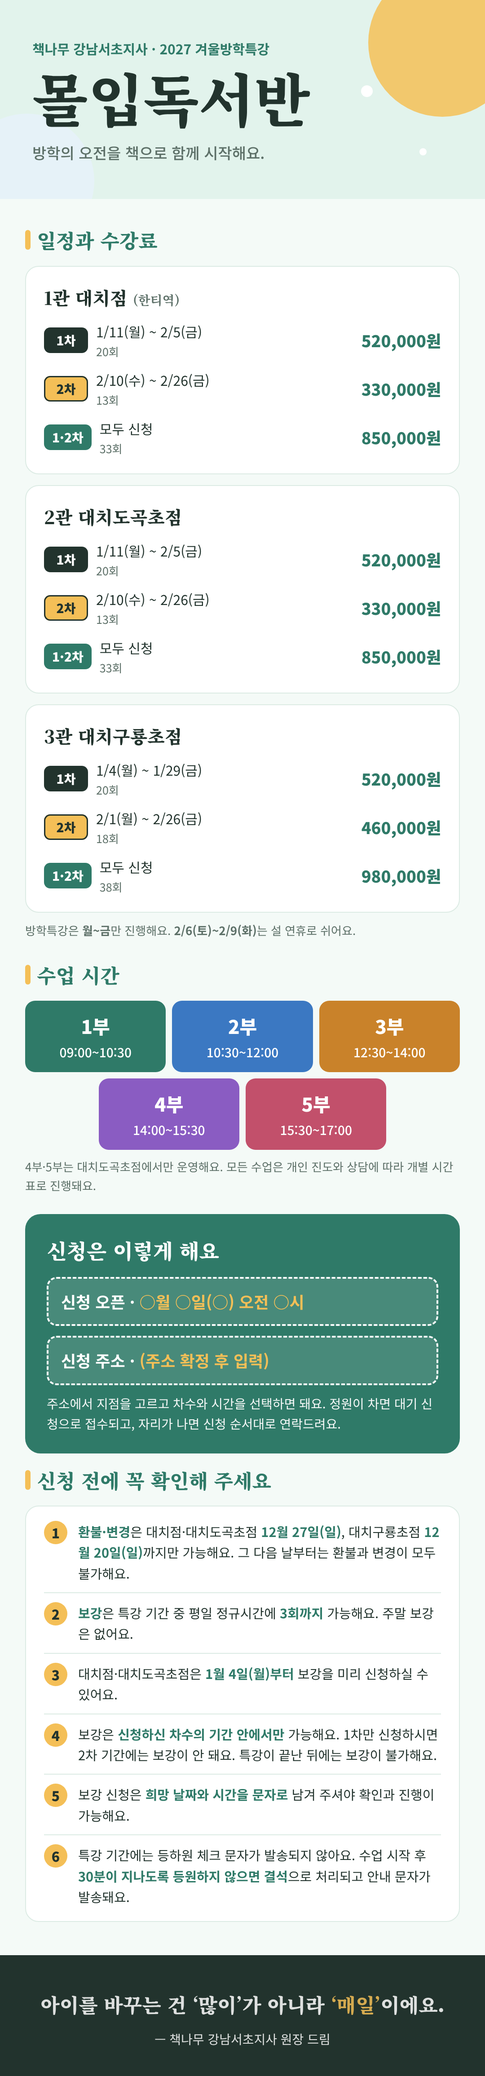
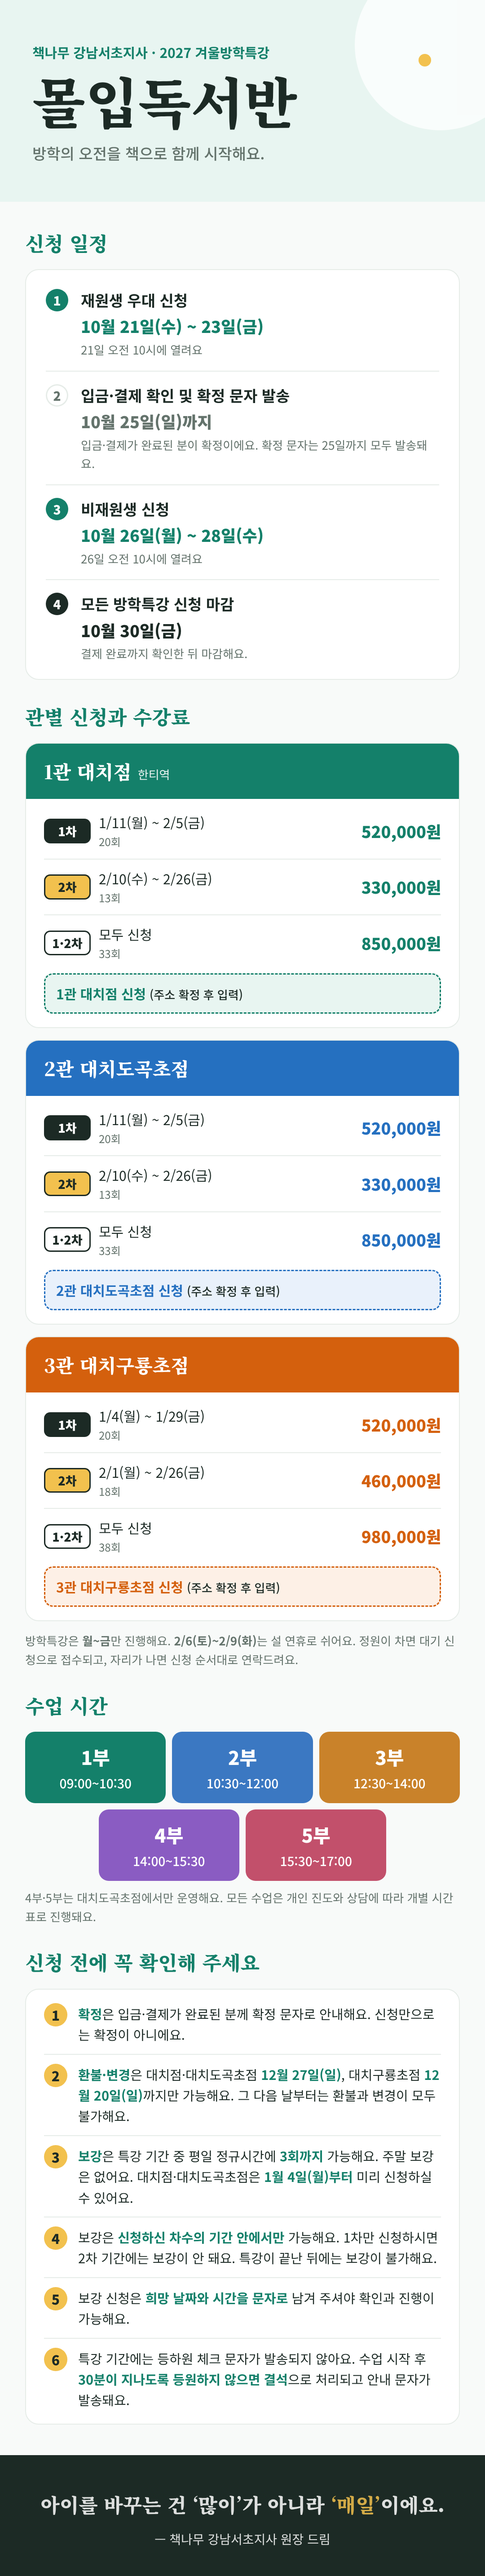
공지 안내문 이미지 새 일정·새 디자인으로 갱신 (관별 색, 관별 신청 주소 칸)
Claude-Session: https://claude.ai/code/session_01CMkHt9vR7B71WRJrYuVxsD

diff --git a/chaeknamu-winter/docs/notice/notice.html b/chaeknamu-winter/docs/notice/notice.html
@@ -4,84 +4,115 @@
 <link rel="preconnect" href="https://fonts.googleapis.com"><link rel="preconnect" href="https://fonts.gstatic.com" crossorigin>
 <link href="https://fonts.googleapis.com/css2?family=Noto+Sans+KR:wght@400;500;700;900&family=Noto+Serif+KR:wght@700;900&display=swap" rel="stylesheet">
 <style>
-:root{--pine:#2f7a68;--pine-d:#25624f;--gold:#f4bf57;--snow:#f4faf7;--ink:#22332d;--muted:#5d7068;--line:#dcebe4;--mint:#e2f3ec;--sky:#e6f2f8}
+:root{--ink:#1c2a25;--muted:#64736c;--line:#e6ece8;--snow:#f8faf9;--gold:#f2c14e;--g1:#14806a;--g1s:#e8f5f1;--g2:#2570c0;--g2s:#e9f1fb;--g3:#d4600d;--g3s:#fdf0e6}
 *{box-sizing:border-box;margin:0;padding:0}
 body{width:1080px;background:var(--snow);color:var(--ink);font-family:'Noto Sans KR',sans-serif;font-size:30px;line-height:1.6}
 .serif{font-family:'Noto Serif KR',serif;font-weight:900}
-.hero{position:relative;overflow:hidden;background:var(--mint);padding:84px 72px 76px}
-.hero .sun{position:absolute;right:-70px;top:-70px;width:330px;height:330px;border-radius:50%;background:var(--gold);opacity:.85}
-.hero .d1{position:absolute;right:250px;top:190px;width:26px;height:26px;border-radius:50%;background:#fff}
-.hero .d2{position:absolute;right:130px;top:330px;width:16px;height:16px;border-radius:50%;background:#fff}
-.hero .moon{position:absolute;left:-90px;bottom:-110px;width:300px;height:300px;border-radius:50%;background:var(--sky)}
+.hero{position:relative;overflow:hidden;background:var(--g1s);padding:92px 72px 80px}
+.hero .c1{position:absolute;right:-90px;top:-90px;width:380px;height:380px;border-radius:50%;background:rgba(255,255,255,.75)}
+.hero .c2{position:absolute;right:120px;top:120px;width:28px;height:28px;border-radius:50%;background:var(--gold)}
 .hero p,.hero h1{position:relative}
-.kicker{font-size:30px;font-weight:700;color:var(--pine)}
-h1{font-size:128px;line-height:1.1;margin-top:14px;color:var(--ink)}
-.tag{margin-top:26px;font-size:34px;color:var(--muted);font-weight:500}
-.wrap{padding:56px 56px 20px}
-h2{font-family:'Noto Serif KR',serif;font-weight:900;font-size:44px;color:var(--pine);margin:0 0 22px;display:flex;align-items:center;gap:14px}
-h2:before{content:"";width:12px;height:44px;border-radius:6px;background:var(--gold)}
-.card{background:#fff;border:2px solid var(--line);border-radius:30px;padding:36px 40px;margin-bottom:24px}
-.bname{font-family:'Noto Serif KR',serif;font-weight:900;font-size:40px;color:var(--ink)}
-.row{display:flex;align-items:center;gap:18px;margin-top:20px}
-.chip{flex:none;min-width:98px;text-align:center;font-weight:900;font-size:28px;padding:6px 18px;border-radius:14px}
-.c1{background:var(--ink);color:#fff}.c2{background:var(--gold);color:var(--ink);box-shadow:0 0 0 3px var(--ink) inset}.c3{background:var(--pine);color:#fff}
-.row .t{flex:1;font-size:30px}.row .t small{display:block;font-size:25px;color:var(--muted)}
-.price{font-weight:900;font-size:36px;color:var(--pine);white-space:nowrap}
-.sub{font-size:25px;color:var(--muted);margin-top:14px}
+.kicker{font-size:30px;font-weight:700;color:var(--g1)}
+h1{font-size:122px;line-height:1.1;margin-top:16px}
+.tag{margin-top:24px;font-size:34px;color:var(--muted);font-weight:500}
+.wrap{padding:56px 56px 8px}
+h2{font-family:'Noto Serif KR',serif;font-weight:900;font-size:44px;color:var(--g1);margin:0 0 24px}
+.card{background:#fff;border:2px solid var(--line);border-radius:30px;padding:0;margin-bottom:26px;overflow:hidden}
+/* 신청 일정 타임라인 */
+.tl{padding:14px 44px 10px}
+.step{position:relative;padding:26px 0 26px 78px;border-top:2px solid var(--line)}
+.step:first-child{border-top:0}
+.step .n{position:absolute;left:0;top:28px;width:50px;height:50px;border-radius:50%;background:var(--g1);color:#fff;font-weight:900;font-size:28px;text-align:center;line-height:50px}
+.step.rest .n{background:#fff;color:var(--muted);box-shadow:inset 0 0 0 3px var(--line)}
+.step.end .n{background:var(--ink)}
+.step b{display:block;font-size:34px}
+.step .d{font-size:36px;font-weight:900;color:var(--g1);margin-top:2px}
+.step.rest .d{color:var(--muted)}
+.step.end .d{color:var(--ink)}
+.step small{display:block;font-size:26px;color:var(--muted);font-weight:400;margin-top:2px}
+.note{font-size:26px;color:var(--muted);margin-top:16px}
+/* 관별 카드 */
+.bhead{padding:28px 40px;color:#fff;display:flex;align-items:baseline;gap:14px}
+.bhead .nm{font-family:'Noto Serif KR',serif;font-weight:900;font-size:42px}
+.bhead .sb{font-size:26px;opacity:.9}
+.b1 .bhead{background:var(--g1)}.b2 .bhead{background:var(--g2)}.b3 .bhead{background:var(--g3)}
+.body{padding:10px 40px 30px}
+.row{display:flex;align-items:center;gap:18px;padding:18px 0;border-top:2px solid var(--line)}
+.row:first-child{border-top:0}
+.chip{flex:none;min-width:104px;text-align:center;font-weight:900;font-size:27px;padding:6px 14px;border-radius:14px}
+.k1{background:var(--ink);color:#fff}.k2{background:var(--gold);color:var(--ink);box-shadow:inset 0 0 0 3px var(--ink)}.k3{background:#fff;color:var(--ink);box-shadow:inset 0 0 0 3px var(--ink)}
+.row .t{flex:1;font-size:30px}.row .t small{display:block;font-size:24px;color:var(--muted)}
+.price{font-weight:900;font-size:36px;white-space:nowrap}
+.b1 .price{color:var(--g1)}.b2 .price{color:var(--g2)}.b3 .price{color:var(--g3)}
+.link{margin-top:6px;border:3px dashed;border-radius:20px;padding:18px 24px;font-size:30px;font-weight:700}
+.b1 .link{border-color:var(--g1);background:var(--g1s);color:var(--g1)}.b2 .link{border-color:var(--g2);background:var(--g2s);color:var(--g2)}.b3 .link{border-color:var(--g3);background:var(--g3s);color:var(--g3)}
+.link span{color:var(--ink);font-weight:500;font-size:26px;margin-left:8px}
+/* 시간 */
 .slots{display:flex;flex-wrap:wrap;justify-content:center;gap:14px}
 .slot{flex:0 0 calc((100% - 28px)/3);border-radius:22px;padding:22px 10px;text-align:center;color:#fff}
 .slot b{display:block;font-size:42px;font-weight:900}.slot span{font-size:28px;font-weight:500}
-.s1{background:#2f7a68}.s2{background:#3b78c2}.s3{background:#c9822a}.s4{background:#8a5cc2}.s5{background:#c2506b}
-.note{font-size:26px;color:var(--muted);margin-top:16px}
-.apply{background:var(--pine);color:#fff;border-radius:34px;padding:44px 48px;margin:10px 0 24px}
-.apply h3{font-family:'Noto Serif KR',serif;font-weight:900;font-size:46px}
-.blank{margin-top:22px;border:4px dashed #fff;border-radius:22px;padding:22px 28px;font-size:36px;font-weight:700;background:rgba(255,255,255,.12)}
-.blank em{font-style:normal;color:var(--gold)}
-.apply p{margin-top:18px;font-size:28px;opacity:.95}
-ol{list-style:none;counter-reset:n}
+.s1{background:#14806a}.s2{background:#3b78c2}.s3{background:#c9822a}.s4{background:#8a5cc2}.s5{background:#c2506b}
+ol{list-style:none;counter-reset:n;padding:10px 40px}
 ol li{counter-increment:n;position:relative;padding:20px 0 20px 76px;border-top:2px solid var(--line);font-size:29px}
 ol li:first-child{border-top:0}
 ol li:before{content:counter(n);position:absolute;left:0;top:20px;width:52px;height:52px;border-radius:50%;background:var(--gold);color:var(--ink);font-weight:900;font-size:30px;text-align:center;line-height:52px}
-ol li b{color:var(--pine)}
-.foot{margin:30px 0 0;background:var(--ink);color:#fff;padding:54px 72px 60px;text-align:center}
+ol li b{color:var(--g1)}
+.foot{margin:34px 0 0;background:var(--ink);color:#fff;padding:54px 72px 60px;text-align:center}
 .foot .q{font-family:'Noto Serif KR',serif;font-weight:900;font-size:44px;line-height:1.5}
 .foot .q i{font-style:normal;color:var(--gold)}
 .foot p{margin-top:22px;font-size:28px;opacity:.85}
 </style></head><body>
 
 <header class="hero">
-  <span class="sun"></span><span class="d1"></span><span class="d2"></span><span class="moon"></span>
+  <span class="c1"></span><span class="c2"></span>
   <p class="kicker">책나무 강남서초지사 · 2027 겨울방학특강</p>
   <h1 class="serif">몰입독서반</h1>
   <p class="tag">방학의 오전을 책으로 함께 시작해요.</p>
 </header>
 
-<div class="wrap" id="p1">
-  <h2>일정과 수강료</h2>
+<div class="wrap">
+  <h2>신청 일정</h2>
+  <div class="card"><div class="tl">
+    <div class="step"><span class="n">1</span><b>재원생 우대 신청</b><div class="d">10월 21일(수) ~ 23일(금)</div><small>21일 오전 10시에 열려요</small></div>
+    <div class="step rest"><span class="n">2</span><b>입금·결제 확인 및 확정 문자 발송</b><div class="d">10월 25일(일)까지</div><small>입금·결제가 완료된 분이 확정이에요. 확정 문자는 25일까지 모두 발송돼요.</small></div>
+    <div class="step"><span class="n">3</span><b>비재원생 신청</b><div class="d">10월 26일(월) ~ 28일(수)</div><small>26일 오전 10시에 열려요</small></div>
+    <div class="step end"><span class="n">4</span><b>모든 방학특강 신청 마감</b><div class="d">10월 30일(금)</div><small>결제 완료까지 확인한 뒤 마감해요.</small></div>
+  </div></div>
 
-  <div class="card">
-    <div class="bname">1관 대치점 <span style="font-size:28px;font-weight:500;color:var(--muted)">(한티역)</span></div>
-    <div class="row"><span class="chip c1">1차</span><div class="t">1/11(월) ~ 2/5(금)<small>20회</small></div><div class="price">520,000원</div></div>
-    <div class="row"><span class="chip c2">2차</span><div class="t">2/10(수) ~ 2/26(금)<small>13회</small></div><div class="price">330,000원</div></div>
-    <div class="row"><span class="chip c3">1·2차</span><div class="t">모두 신청<small>33회</small></div><div class="price">850,000원</div></div>
+  <h2 id="p2" style="margin-top:46px">관별 신청과 수강료</h2>
+
+  <div class="card b1">
+    <div class="bhead"><span class="nm">1관 대치점</span><span class="sb">한티역</span></div>
+    <div class="body">
+      <div class="row"><span class="chip k1">1차</span><div class="t">1/11(월) ~ 2/5(금)<small>20회</small></div><div class="price">520,000원</div></div>
+      <div class="row"><span class="chip k2">2차</span><div class="t">2/10(수) ~ 2/26(금)<small>13회</small></div><div class="price">330,000원</div></div>
+      <div class="row"><span class="chip k3">1·2차</span><div class="t">모두 신청<small>33회</small></div><div class="price">850,000원</div></div>
+      <div class="link">1관 대치점 신청<span>(주소 확정 후 입력)</span></div>
+    </div>
   </div>
 
-  <div class="card">
-    <div class="bname">2관 대치도곡초점</div>
-    <div class="row"><span class="chip c1">1차</span><div class="t">1/11(월) ~ 2/5(금)<small>20회</small></div><div class="price">520,000원</div></div>
-    <div class="row"><span class="chip c2">2차</span><div class="t">2/10(수) ~ 2/26(금)<small>13회</small></div><div class="price">330,000원</div></div>
-    <div class="row"><span class="chip c3">1·2차</span><div class="t">모두 신청<small>33회</small></div><div class="price">850,000원</div></div>
+  <div class="card b2">
+    <div class="bhead"><span class="nm">2관 대치도곡초점</span></div>
+    <div class="body">
+      <div class="row"><span class="chip k1">1차</span><div class="t">1/11(월) ~ 2/5(금)<small>20회</small></div><div class="price">520,000원</div></div>
+      <div class="row"><span class="chip k2">2차</span><div class="t">2/10(수) ~ 2/26(금)<small>13회</small></div><div class="price">330,000원</div></div>
+      <div class="row"><span class="chip k3">1·2차</span><div class="t">모두 신청<small>33회</small></div><div class="price">850,000원</div></div>
+      <div class="link">2관 대치도곡초점 신청<span>(주소 확정 후 입력)</span></div>
+    </div>
   </div>
 
-  <div class="card">
-    <div class="bname">3관 대치구룡초점</div>
-    <div class="row"><span class="chip c1">1차</span><div class="t">1/4(월) ~ 1/29(금)<small>20회</small></div><div class="price">520,000원</div></div>
-    <div class="row"><span class="chip c2">2차</span><div class="t">2/1(월) ~ 2/26(금)<small>18회</small></div><div class="price">460,000원</div></div>
-    <div class="row"><span class="chip c3">1·2차</span><div class="t">모두 신청<small>38회</small></div><div class="price">980,000원</div></div>
+  <div class="card b3">
+    <div class="bhead"><span class="nm">3관 대치구룡초점</span></div>
+    <div class="body">
+      <div class="row"><span class="chip k1">1차</span><div class="t">1/4(월) ~ 1/29(금)<small>20회</small></div><div class="price">520,000원</div></div>
+      <div class="row"><span class="chip k2">2차</span><div class="t">2/1(월) ~ 2/26(금)<small>18회</small></div><div class="price">460,000원</div></div>
+      <div class="row"><span class="chip k3">1·2차</span><div class="t">모두 신청<small>38회</small></div><div class="price">980,000원</div></div>
+      <div class="link">3관 대치구룡초점 신청<span>(주소 확정 후 입력)</span></div>
+    </div>
   </div>
-  <p class="note" style="margin-top:-6px;margin-bottom:8px">방학특강은 <b>월~금</b>만 진행해요. <b>2/6(토)~2/9(화)</b>는 설 연휴로 쉬어요.</p>
+  <p class="note" style="margin-top:-4px">방학특강은 <b>월~금</b>만 진행해요. <b>2/6(토)~2/9(화)</b>는 설 연휴로 쉬어요. 정원이 차면 대기 신청으로 접수되고, 자리가 나면 신청 순서대로 연락드려요.</p>
 
-  <h2 id="p2" style="margin-top:44px">수업 시간</h2>
+  <h2 id="p3" style="margin-top:46px">수업 시간</h2>
   <div class="slots">
     <div class="slot s1"><b>1부</b><span>09:00~10:30</span></div>
     <div class="slot s2"><b>2부</b><span>10:30~12:00</span></div>
@@ -91,24 +122,15 @@ ol li b{color:var(--pine)}
   </div>
   <p class="note">4부·5부는 대치도곡초점에서만 운영해요. 모든 수업은 개인 진도와 상담에 따라 개별 시간표로 진행돼요.</p>
 
-  <div class="apply" style="margin-top:44px">
-    <h3>신청은 이렇게 해요</h3>
-    <div class="blank">신청 오픈 · <em>○월 ○일(○) 오전 ○시</em></div>
-    <div class="blank">신청 주소 · <em>(주소 확정 후 입력)</em></div>
-    <p>주소에서 지점을 고르고 차수와 시간을 선택하면 돼요. 정원이 차면 대기 신청으로 접수되고, 자리가 나면 신청 순서대로 연락드려요.</p>
-  </div>
-
-  <h2 id="p3">신청 전에 꼭 확인해 주세요</h2>
-  <div class="card" style="padding:12px 40px">
-    <ol>
-      <li><b>환불·변경</b>은 대치점·대치도곡초점 <b>12월 27일(일)</b>, 대치구룡초점 <b>12월 20일(일)</b>까지만 가능해요. 그 다음 날부터는 환불과 변경이 모두 불가해요.</li>
-      <li><b>보강</b>은 특강 기간 중 평일 정규시간에 <b>3회까지</b> 가능해요. 주말 보강은 없어요.</li>
-      <li>대치점·대치도곡초점은 <b>1월 4일(월)부터</b> 보강을 미리 신청하실 수 있어요.</li>
-      <li>보강은 <b>신청하신 차수의 기간 안에서만</b> 가능해요. 1차만 신청하시면 2차 기간에는 보강이 안 돼요. 특강이 끝난 뒤에는 보강이 불가해요.</li>
-      <li>보강 신청은 <b>희망 날짜와 시간을 문자로</b> 남겨 주셔야 확인과 진행이 가능해요.</li>
-      <li>특강 기간에는 등하원 체크 문자가 발송되지 않아요. 수업 시작 후 <b>30분이 지나도록 등원하지 않으면 결석</b>으로 처리되고 안내 문자가 발송돼요.</li>
-    </ol>
-  </div>
+  <h2 style="margin-top:46px">신청 전에 꼭 확인해 주세요</h2>
+  <div class="card"><ol>
+    <li><b>확정</b>은 입금·결제가 완료된 분께 확정 문자로 안내해요. 신청만으로는 확정이 아니에요.</li>
+    <li><b>환불·변경</b>은 대치점·대치도곡초점 <b>12월 27일(일)</b>, 대치구룡초점 <b>12월 20일(일)</b>까지만 가능해요. 그 다음 날부터는 환불과 변경이 모두 불가해요.</li>
+    <li><b>보강</b>은 특강 기간 중 평일 정규시간에 <b>3회까지</b> 가능해요. 주말 보강은 없어요. 대치점·대치도곡초점은 <b>1월 4일(월)부터</b> 미리 신청하실 수 있어요.</li>
+    <li>보강은 <b>신청하신 차수의 기간 안에서만</b> 가능해요. 1차만 신청하시면 2차 기간에는 보강이 안 돼요. 특강이 끝난 뒤에는 보강이 불가해요.</li>
+    <li>보강 신청은 <b>희망 날짜와 시간을 문자로</b> 남겨 주셔야 확인과 진행이 가능해요.</li>
+    <li>특강 기간에는 등하원 체크 문자가 발송되지 않아요. 수업 시작 후 <b>30분이 지나도록 등원하지 않으면 결석</b>으로 처리되고 안내 문자가 발송돼요.</li>
+  </ol></div>
 </div>
 
 <footer class="foot">
